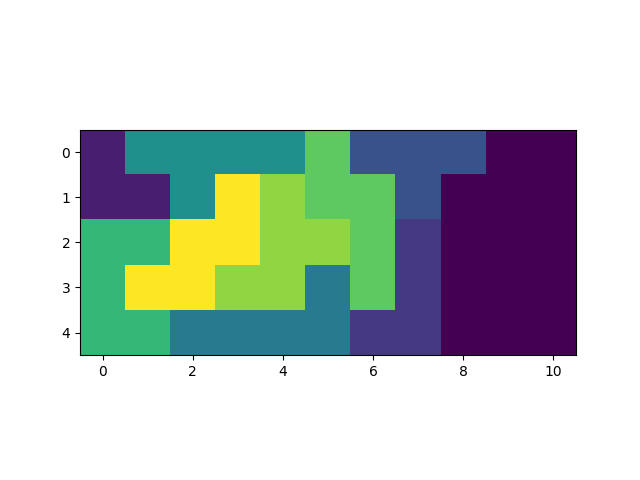
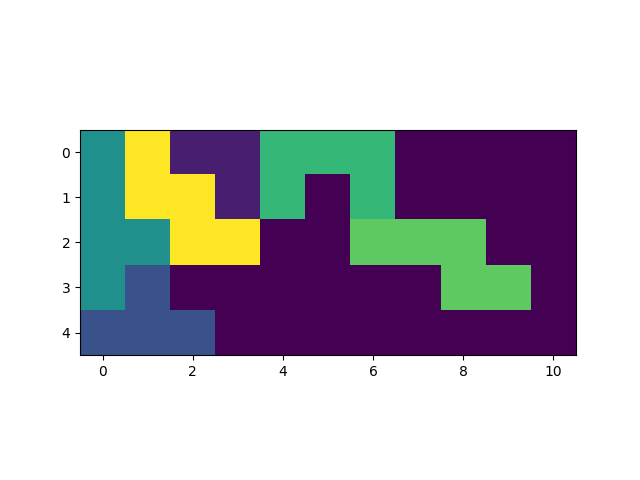
dziala i tata mówi że ładnie wygląda

Changed region(s): [[0.125, 0.25, 0.8438, 0.75]]

diff --git a/new_main.py b/new_main.py
@@ -37,15 +37,15 @@ def show(main_board: np.ndarray, unused_pieces: [np.ndarray]) -> None:
     if len(unused_pieces) < 3:
         width = len(unused_pieces) + 1
     else:
-        width = 4
-    height = ceil(len(unused_pieces)/3)
+        width = 3
+    height = ceil(len(unused_pieces)/2)
+    print(height, width, [2]+[1]*(width-1), [1]*height)
     fig = plt.figure(figsize=(15, 10))
     gs = fig.add_gridspec(height, width, width_ratios=[2]+[1]*(width-1), height_ratios=[1]*height)
     colormap = ListedColormap(colors)
 
     main_plot = fig.add_subplot(gs[0, 0])
-    unused_plots = [fig.add_subplot(gs[i, j]) for i in range(height) for j in range(1, width)]
-    print(unused_plots)
+    unused_plots = [fig.add_subplot(gs[i, j+1]) for i in range(height) for j in range(width-1)]
     main_plot.imshow(main_board, cmap=colormap)
     main_plot.set_title("Układana plansza")
     print(unused)
@@ -55,10 +55,10 @@ def show(main_board: np.ndarray, unused_pieces: [np.ndarray]) -> None:
     plt.tight_layout()
     plt.show()
 
-board_in_progress = read_file("plansza2.txt")
+board_in_progress = read_file("plansza3.txt")
 SOLVED = read_file("plansza.txt")
 ALL_PIECES = read_all_pieces_from_board(SOLVED)
 used = read_all_pieces_from_board(board_in_progress)
 unused = [i for i in ALL_PIECES if i not in used]
+print(board_in_progress)
 show(board_in_progress, [draw_an_element(i, SOLVED) for i in unused])
-# print()

diff --git a/gpt.py b/gpt.py
@@ -11,14 +11,14 @@ y5 = np.log(x + 1)
 
 # Create a figure with a custom grid layout
 fig = plt.figure(figsize=(15, 10))
-gs = fig.add_gridspec(2, 3, width_ratios=[2, 1, 1], height_ratios=[1, 1])
+gs = fig.add_gridspec(2, 3, width_ratios=[4, 1, 1], height_ratios=[2, 1])
 
 # Add subplots to the grid
 ax1 = fig.add_subplot(gs[0, 0])  # Top-left subplot (big)
 ax2 = fig.add_subplot(gs[0, 1])  # Top-center subplot
 ax3 = fig.add_subplot(gs[0, 2])  # Top-right subplot
 ax4 = fig.add_subplot(gs[1, 1])  # Bottom-center subplot
-ax5 = fig.add_subplot(gs[1, 2])  # Bottom-right subplot
+# ax5 = fig.add_subplot(gs[1, 2])  # Bottom-right subplot
 
 # Plot the data on each subplot
 ax1.plot(x, y1, label='sin(x)')
@@ -29,11 +29,11 @@ ax3.plot(x, y3, label='tan(x)')
 ax3.set_title('Plot 3')
 ax4.plot(x, y4, label='exp(-x)')
 ax4.set_title('Plot 4')
-ax5.plot(x, y5, label='log(x+1)')
-ax5.set_title('Plot 5')
+# ax5.plot(x, y5, label='log(x+1)')
+# ax5.set_title('Plot 5')
 
 # Add labels, legends, etc. as needed
-for ax in [ax1, ax2, ax3, ax4, ax5]:
+for ax in [ax1, ax2, ax3, ax4]:
     ax.set_xlabel('X-axis')
     ax.set_ylabel('Y-axis')
     ax.legend()

diff --git a/main.py b/main.py
@@ -68,7 +68,7 @@ def make_image(array: np.ndarray, directory: str) -> None:
 
 
 # running = True
-board_in_progress = read_file("plansza2.txt")
+board_in_progress = read_file("plansza3.txt")
 SOLVED = read_file("plansza.txt")
 
 # read all unused pieces
